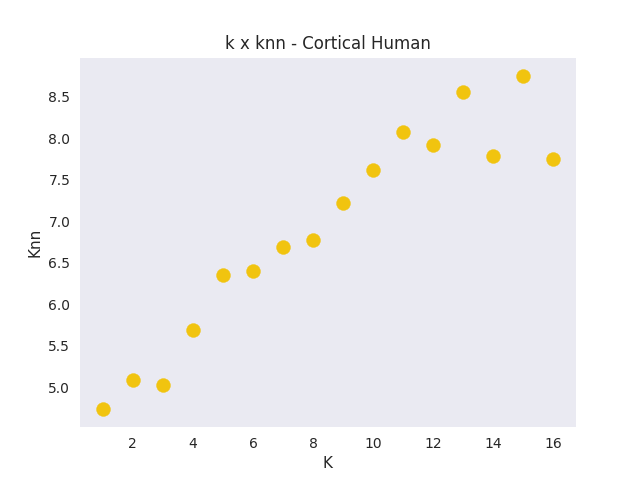
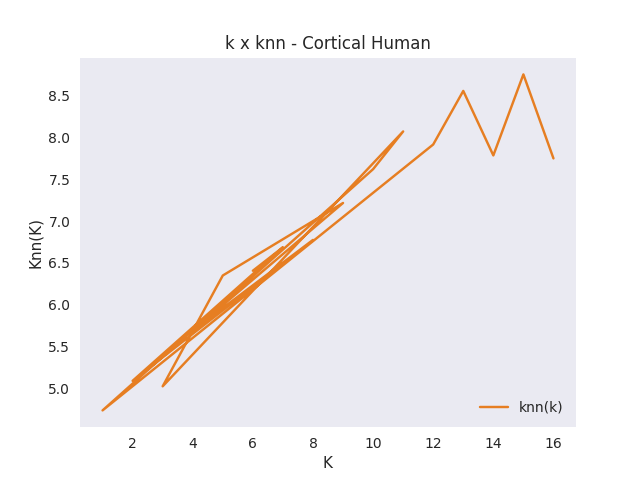
Cleanup, start fixing k x knn plotting errors

diff --git a/assignment2/assignment2.py b/assignment2/assignment2.py
@@ -73,27 +73,31 @@ def k_x_knn(graphs):
     i = 0
     for name, graph in graphs.items():
         print(name)
-        knn = nx.average_degree_connectivity(graph)
 
+        knn_degrees = nx.average_degree_connectivity(graph)
+        knn_vertex = nx.average_neig6hbor_degree(graph)
+
+        knn_k = list(knn_degrees.values())
+        knn_v = list(knn_vertex.values())
+
+        # plot
         sns.set()
-        # plot k x knn
-        x = list(knn.keys())
-        y = list(knn.values())
-
         pp.title("k x knn - %s" % name)
         pp.ylabel("Knn(K)")
         pp.xlabel("K")
-        pp.scatter(x, y, c=colors[i], s = 100)
-        
-        pp.grid(False)
 
+        # pp.plot(list(knn_degrees.keys()), list(knn_degrees.values()), c=colors[i+1], label="knn(k)")
+        # pp.scatter(list(knn_degrees.keys()), list(knn_degrees.values()), c=colors[i], s = 100, label="k(x) vs knn(x)")
+      
+        pp.grid(False)
+        pp.legend(loc='lower right')
         pp.savefig('plots/' + name + "-kxknn.png")
         pp.clf()
         i += 1
 
         # correlation
-        correlation = pearson(graph.degree().values(), knn.values())
-        print("correlation: %.4f" % correlation)
+        correlation = pearson(graph.degree().values(), knn_degrees.values())
+        print("pearson correlation coefficient: %.4f" % correlation)
 
 
 def modularities(graphs):
@@ -189,9 +193,12 @@ graphs["Cortical Human"] = read_graph("./networks/cortical-human.txt")
 graphs["Cortical Cat"] = read_graph("./networks/cortical-cat.txt")
 graphs["Cortical Monkey"] = read_graph("./networks/cortical-monkey.txt")
 
-# measures
+# 1
 # assortativity(graphs)
-# k_x_knn(graphs)
+# 2
+k_x_knn(graphs)
+# 3, 6
 # modularities(graphs)
-communities()
+# 7
+# communities()
 print("done")
